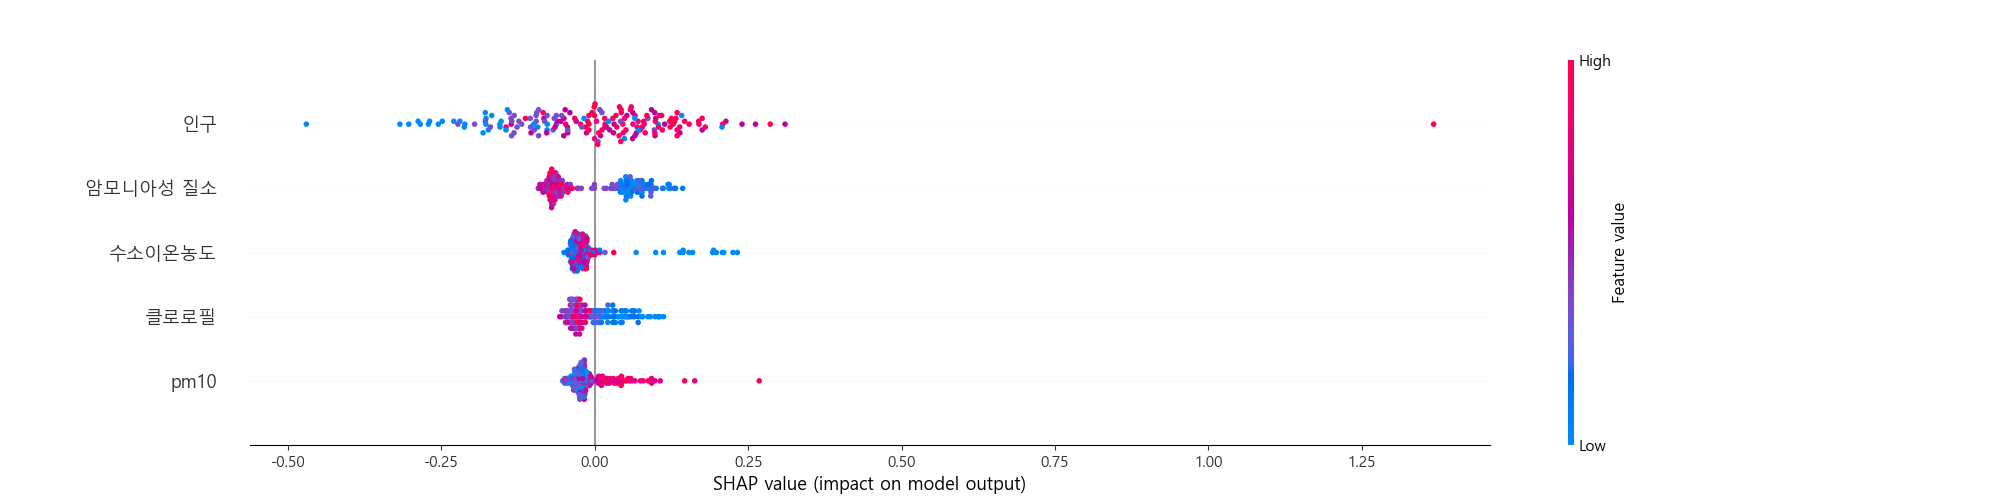
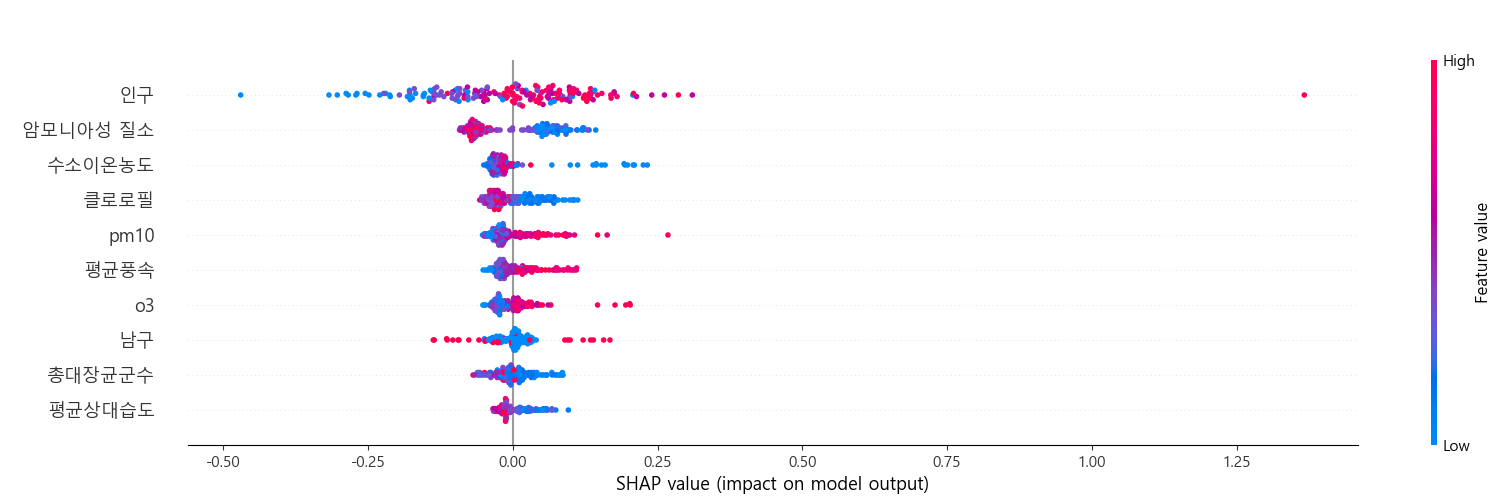
edit scatter graph

diff --git a/07.Legal_Communicable_Disease/02.HAV_Gwangju.py b/07.Legal_Communicable_Disease/02.HAV_Gwangju.py
@@ -74,14 +74,15 @@ plt.plot(num)
 plt.xlim(-0.1, 1)
 plt.ylim(-0.1, 1)
 plt.title("CatBoost Prediction")
-plt.ylabel('Ground Truth')
-plt.xlabel('Prediction')
+plt.ylabel('Prediction')
+plt.xlabel('Ground Truth')
 plt.savefig('./plot/CatBoost_HAV_Gwangju_Scatter.png')
 plt.show()
 plt.clf()
 
 shap_values = shap.TreeExplainer(model).shap_values(X)
-shap.summary_plot(shap_values, X, max_display=5, show=False, plot_size=(20, 5))
+shap.summary_plot(shap_values, X, max_display=10, show=False, plot_size=(15, 5))
+plt.subplots_adjust(right=1.1)
 plt.savefig('./plot/CatBoost_HAV_Gwangju_Shap.png', format='png')
 plt.show()
 plt.clf()
@@ -97,14 +98,15 @@ plt.plot(num)
 plt.xlim(-0.1, 1)
 plt.ylim(-0.1, 1)
 plt.title("XGBoost Prediction")
-plt.ylabel('Ground Truth')
-plt.xlabel('Prediction')
+plt.ylabel('Prediction')
+plt.xlabel('Ground Truth')
 plt.savefig('./plot/XGBoost_HAV_Gwangju_Scatter.png')
 plt.show()
 plt.clf()
 
 shap_values = shap.TreeExplainer(model).shap_values(X)
-shap.summary_plot(shap_values, X, max_display=5, show=False, plot_size=(20, 5))
+shap.summary_plot(shap_values, X, max_display=10, show=False, plot_size=(15, 5))
+plt.subplots_adjust(right=1.1)
 plt.savefig('./plot/XGBoost_HAV_Gwangju_Shap.png', format='png')
 plt.show()
 plt.clf()
